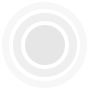
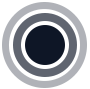
implement new clusters

diff --git a/eFillApp/src/app/services/map-style/map-style.service.ts b/eFillApp/src/app/services/map-style/map-style.service.ts
@@ -248,31 +248,31 @@ export class MapStyleService {
 
     public clusterStyles = [
         {
-            textColor: 'black',
+            textColor: '#393939',
             url: 'assets/cluster/m1.png',
-            height: 50,
-            width: 50
+            height: 51,
+            width: 51
         },
         {
-            textColor: 'black',
+            textColor: '#283040',
             url: 'assets/cluster/m2.png',
             height: 53,
             width: 53
         },
         {
-            textColor: 'black',
+            textColor: '#97c6ce',
             url: 'assets/cluster/m3.png',
             height: 66,
             width: 66
         },
         {
-            textColor: 'black',
+            textColor: '#8ec3b9',
             url: 'assets/cluster/m4.png',
             height: 78,
             width: 78
         },
         {
-            textColor: 'black',
+            textColor: '#8ec3b9',
             url: 'assets/cluster/m5.png',
             height: 78,
             width: 78

diff --git a/eFillApp/src/app/pages/google-maps/google-maps.component.ts b/eFillApp/src/app/pages/google-maps/google-maps.component.ts
@@ -27,7 +27,7 @@ export class GoogleMapsComponent implements OnInit {
 
         const options = {
             center: location,
-            zoom: 5.8,
+            zoom: 5.4,
             disableDefaultUI: true,
             clickableIcons: false,
             mapTypeIds: 'day_map'
